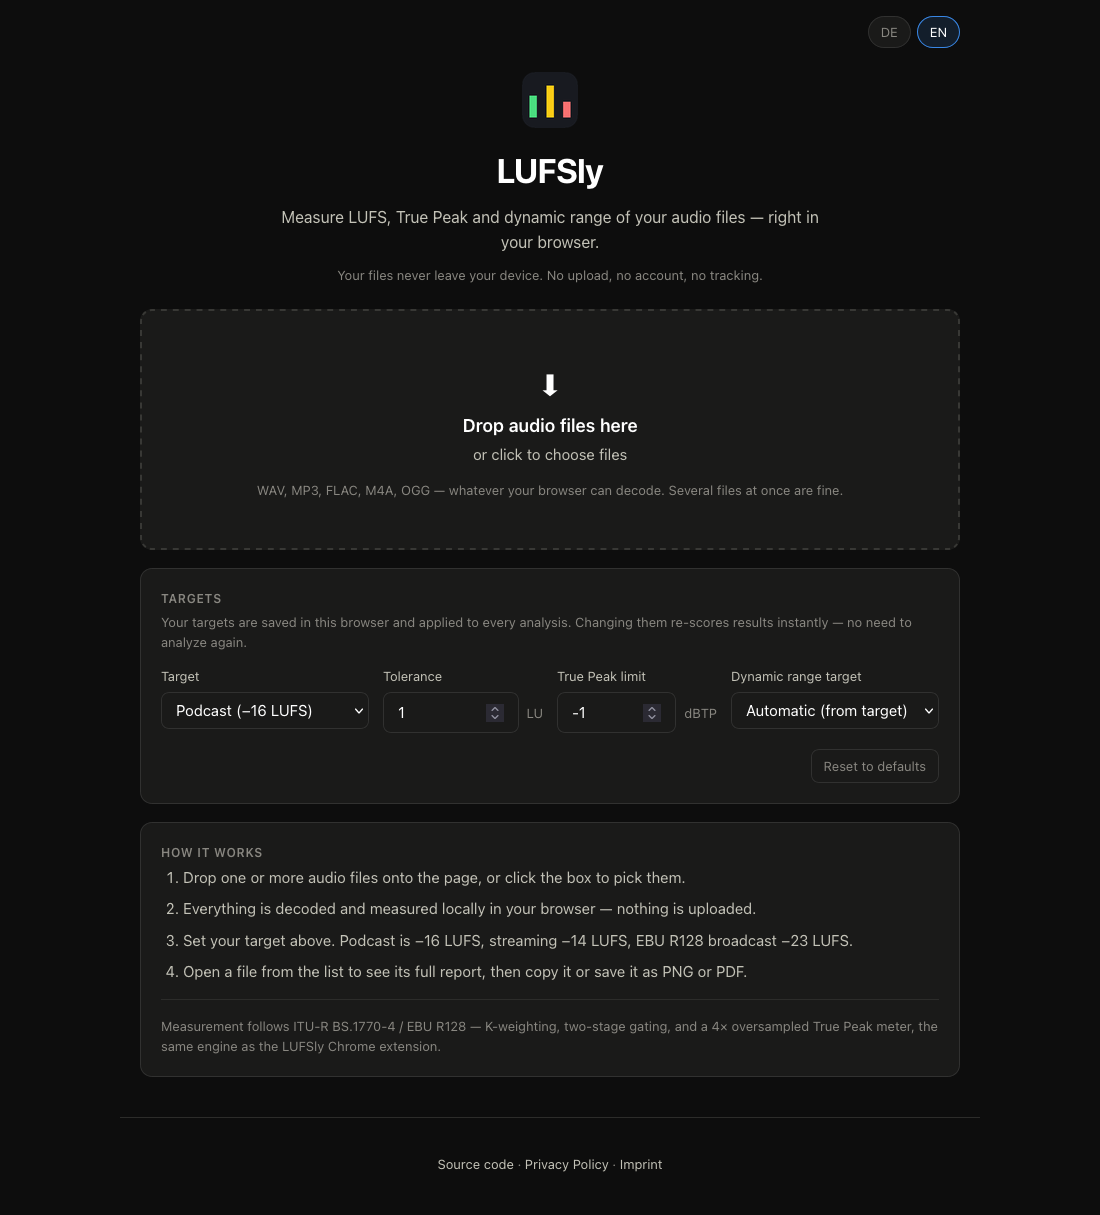
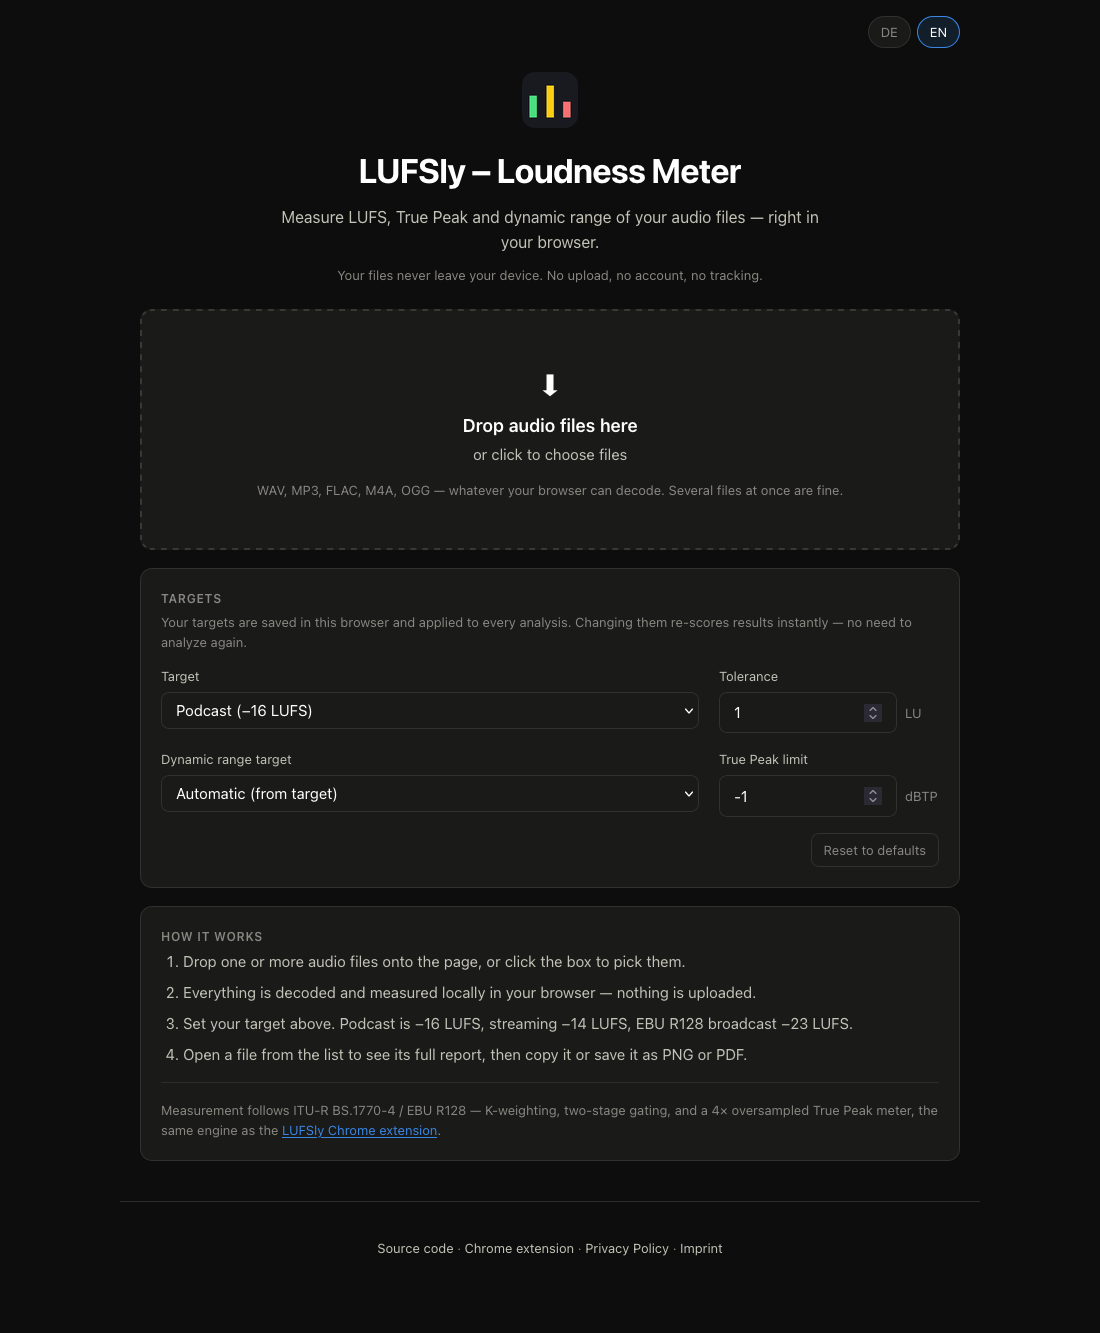
Added notes for Chrome extension

diff --git a/index.html b/index.html
@@ -46,7 +46,7 @@
       <p class="card-hint" data-i18n="targetsHint">Your targets are saved in this browser and applied to every analysis.</p>
 
       <div class="field-grid">
-        <div class="field" id="target-field">
+        <div class="field">
           <label for="preset" data-i18n="presetLabel">Target</label>
           <div class="control-row">
             <select id="preset">
@@ -64,19 +64,11 @@
           </div>
         </div>
 
-        <div class="field narrow">
+        <div class="field">
           <label for="tolerance" data-i18n="toleranceLabel">Tolerance</label>
           <div class="with-unit">
             <input type="number" id="tolerance" step="0.1" min="0" max="10" value="1" />
             <span class="unit">LU</span>
-          </div>
-        </div>
-
-        <div class="field narrow">
-          <label for="tp-limit" data-i18n="tpLimitLabel">True Peak limit</label>
-          <div class="with-unit">
-            <input type="number" id="tp-limit" step="0.1" min="-10" max="0" value="-1" />
-            <span class="unit">dBTP</span>
           </div>
         </div>
 
@@ -92,6 +84,14 @@
                      data-i18n-aria="drCustomValue" />
               <span class="unit">LU</span>
             </div>
+          </div>
+        </div>
+
+        <div class="field">
+          <label for="tp-limit" data-i18n="tpLimitLabel">True Peak limit</label>
+          <div class="with-unit">
+            <input type="number" id="tp-limit" step="0.1" min="-10" max="0" value="-1" />
+            <span class="unit">dBTP</span>
           </div>
         </div>
       </div>
@@ -150,13 +150,15 @@
         <li data-i18n="howStep3"></li>
         <li data-i18n="howStep4"></li>
       </ol>
-      <p class="standards-note" data-i18n="standardsNote"></p>
+      <p class="standards-note" data-i18n-html="standardsNote"></p>
     </section>
   </main>
 
   <footer>
     <p class="footer-links">
       <a href="https://github.com/Macusercom/lufsly" target="_blank" rel="noopener" data-i18n="footerSource">Source code</a>
+      ·
+      <a href="https://github.com/Macusercom/lufsly-extension" target="_blank" rel="noopener" data-i18n="footerExtension">Chrome extension</a>
       ·
       <a href="privacy.html" data-i18n="footerPrivacy">Privacy Policy</a>
       ·

diff --git a/style.css b/style.css
@@ -175,13 +175,12 @@ main {
 
 /* ---------- targets ---------- */
 
-/* Selects need room for their labels; the numeric fields hold two or three
-   digits, so they stay narrow and the whole set fits on one row. */
-.field-grid { display: flex; flex-wrap: wrap; gap: 14px; }
-/* Capped so a field that wraps onto a row of its own keeps a sane width
-   instead of stretching edge to edge. */
-.field { display: flex; flex-direction: column; gap: 6px; min-width: 0; flex: 1 1 200px; max-width: 380px; }
-.field.narrow { flex: 0 1 160px; }
+/* Two fixed columns, so the set is two rows at any width rather than
+   reflowing between one and four. The selects need room for their labels and
+   share the left column; the numeric limits hold two or three digits and sit
+   together in the narrower right one. */
+.field-grid { display: grid; grid-template-columns: minmax(0, 1fr) 220px; gap: 16px 20px; }
+.field { display: flex; flex-direction: column; gap: 6px; min-width: 0; }
 .field label { color: var(--ink-2); font-size: 13px; display: flex; align-items: center; }
 .field select, .field input[type="number"] { width: 100%; }
 /* A "Custom" choice reveals its value input beside its own select, so the two
@@ -190,10 +189,12 @@ main {
 .control-row select { flex: 1 1 auto; min-width: 0; }
 .inline-extra { flex: 0 0 auto; }
 .inline-extra input[type="number"] { width: 84px; }
-.field.wide { flex: 1 1 330px; }
 .field .with-unit { display: flex; align-items: center; gap: 8px; }
 .field .with-unit input { flex: 1; min-width: 0; }
 .field .unit { color: var(--muted); font-size: 13px; white-space: nowrap; }
+/* "LU" and "dBTP" differ in width; reserving the wider one keeps the two
+   number inputs the same size so the right column has a straight edge. */
+.field > .with-unit > .unit { min-width: 34px; }
 .targets-foot { margin-top: 16px; display: flex; justify-content: flex-end; }
 .targets-foot button { font-size: 13px; padding: 6px 12px; color: var(--muted); }
 
@@ -372,6 +373,8 @@ footer {
 /* ---------- narrow screens ---------- */
 
 @media (max-width: 640px) {
+  /* The 220px number column no longer earns its width here. */
+  .field-grid { grid-template-columns: minmax(0, 1fr); }
   .queue-head { display: none; }
   .queue-item {
     grid-template-columns: 1fr auto;

diff --git a/i18n.js b/i18n.js
@@ -8,7 +8,7 @@
 const LANG_KEY = 'lufsly-lang';
 
 const EN = {
-  appName: 'LUFSly',
+  appName: 'LUFSly – Loudness Meter',
   tagline: 'Measure LUFS, True Peak and dynamic range of your audio files — right in your browser.',
   privacyNote: 'Your files never leave your device. No upload, no account, no tracking.',
 
@@ -107,10 +107,11 @@ const EN = {
   howStep2: 'Everything is decoded and measured locally in your browser — nothing is uploaded.',
   howStep3: 'Set your target above. Podcast is −16 LUFS, streaming −14 LUFS, EBU R128 broadcast −23 LUFS.',
   howStep4: 'Open a file from the list to see its full report, then copy it or save it as PNG or PDF.',
-  standardsNote: 'Measurement follows ITU-R BS.1770-4 / EBU R128 — K-weighting, two-stage gating, and a 4× oversampled True Peak meter, the same engine as the LUFSly Chrome extension.',
+  standardsNote: 'Measurement follows ITU-R BS.1770-4 / EBU R128 — K-weighting, two-stage gating, and a 4× oversampled True Peak meter, the same engine as the <a href="https://github.com/Macusercom/lufsly-extension" target="_blank" rel="noopener">LUFSly Chrome extension</a>.',
 
   // ---- chrome ----
   footerSource: 'Source code',
+  footerExtension: 'Chrome extension',
   footerPrivacy: 'Privacy Policy',
   footerImprint: 'Imprint',
   backToApp: '← Back to the app',
@@ -123,8 +124,8 @@ const EN = {
 };
 
 const DE = {
-  appName: 'LUFSly',
-  tagline: 'Miss LUFS, True Peak und Dynamikumfang deiner Audiodateien — direkt im Browser.',
+  appName: 'LUFSly – Loudness Meter',
+  tagline: 'LUFS, True Peak und Dynamikumfang deiner Audiodateien messen — direkt im Browser.',
   privacyNote: 'Deine Dateien verlassen dein Gerät nicht. Kein Upload, kein Konto, kein Tracking.',
 
   dropTitle: 'Audiodateien hierher ziehen',
@@ -215,9 +216,10 @@ const DE = {
   howStep2: 'Alles wird lokal im Browser dekodiert und gemessen — es wird nichts hochgeladen.',
   howStep3: 'Stelle oben dein Ziel ein. Podcast sind −16 LUFS, Streaming −14 LUFS, EBU-R128-Broadcast −23 LUFS.',
   howStep4: 'Öffne eine Datei aus der Liste, um den vollständigen Bericht zu sehen, und kopiere ihn oder speichere ihn als PNG oder PDF.',
-  standardsNote: 'Die Messung folgt ITU-R BS.1770-4 / EBU R128 — K-Weighting, zweistufiges Gating und ein 4× oversampeltes True-Peak-Meter, dieselbe Engine wie in der LUFSly-Chrome-Erweiterung.',
+  standardsNote: 'Die Messung folgt ITU-R BS.1770-4 / EBU R128 — K-Weighting, zweistufiges Gating und ein 4× oversampeltes True-Peak-Meter, dieselbe Engine wie in der <a href="https://github.com/Macusercom/lufsly-extension" target="_blank" rel="noopener">LUFSly-Chrome-Erweiterung</a>.',
 
   footerSource: 'Quellcode',
+  footerExtension: 'Chrome-Erweiterung',
   footerPrivacy: 'Datenschutz',
   footerImprint: 'Impressum',
   backToApp: '← Zurück zur App',

diff --git a/app.js b/app.js
@@ -117,13 +117,10 @@ function applySettingsToUi() {
   $('tp-limit').value = settings.tpLimit;
   $('dr-mode').value = settings.drMode;
   $('dr-target').value = settings.drTarget;
-  // Each inline value input widens its own field rather than becoming one.
-  const showTarget = settings.preset === 'custom';
-  const showDr = settings.drMode === 'custom';
-  $('custom-target-field').hidden = !showTarget;
-  $('dr-custom-field').hidden = !showDr;
-  $('target-field').classList.toggle('wide', showTarget);
-  $('dr-field').classList.toggle('wide', showDr);
+  // Each inline value input appears beside its own select rather than
+  // becoming a field of its own; the grid column already has room for both.
+  $('custom-target-field').hidden = settings.preset !== 'custom';
+  $('dr-custom-field').hidden = settings.drMode !== 'custom';
 }
 
 // Everything that depends on the targets, re-scored from stored stats.

diff --git a/imprint.html b/imprint.html
@@ -37,6 +37,8 @@
       <a href="index.html" data-i18n="backToLUFSly">← Back to LUFSly</a>
       ·
       <a href="privacy.html" data-i18n="footerPrivacy">Privacy Policy</a>
+      ·
+      <a href="https://github.com/Macusercom/lufsly-extension" target="_blank" rel="noopener" data-i18n="footerExtension">Chrome extension</a>
     </p>
   </footer>
 

diff --git a/privacy.html b/privacy.html
@@ -37,6 +37,8 @@
       <a href="index.html" data-i18n="backToLUFSly">← Back to LUFSly</a>
       ·
       <a href="imprint.html" data-i18n="footerImprint">Imprint</a>
+      ·
+      <a href="https://github.com/Macusercom/lufsly-extension" target="_blank" rel="noopener" data-i18n="footerExtension">Chrome extension</a>
     </p>
   </footer>
 

diff --git a/README.md b/README.md
@@ -1,6 +1,6 @@
 <img src="icons/icon128.png" alt="LUFSly icon" height="100">
 
-# LUFSly
+# LUFSly – Loudness Meter (Web)
 A privacy-first web app that measures the loudness (LUFS), True Peak and dynamic range of your audio files. Drop in a file — or a whole batch — and get a full EBU R128 report with a loudness graph you can copy, or save as PNG or PDF. Everything runs locally in your browser: no upload, no account, no tracking.
 
 🌐 **[Try it live → macusercom.github.io/lufsly](https://macusercom.github.io/lufsly/)**
@@ -23,7 +23,12 @@ A privacy-first web app that measures the loudness (LUFS), True Peak and dynamic
 - German and English UI, follows your browser language
 - No audio or data ever leaves your machine
 
-Measurement follows ITU-R BS.1770-4 / EBU R128 (K-weighting, two-stage gating) using the same DSP core as the LUFSly Chrome extension, so results match between the two.
+Measurement follows ITU-R BS.1770-4 / EBU R128 (K-weighting, two-stage gating) using the same DSP core as the [LUFSly Chrome extension](https://github.com/Macusercom/lufsly-extension), so results match between the two.
+
+
+## Chrome Extension
+
+**[LUFSly for Chrome](https://github.com/Macusercom/lufsly-extension)** is the companion extension: live LUFS, True Peak and dynamic range metering of browser tab audio, plus the same drag & drop file analysis and PNG/PDF reports. It runs the same DSP core as this web app, so both report identical numbers for identical audio.
 
 
 ## How To Use